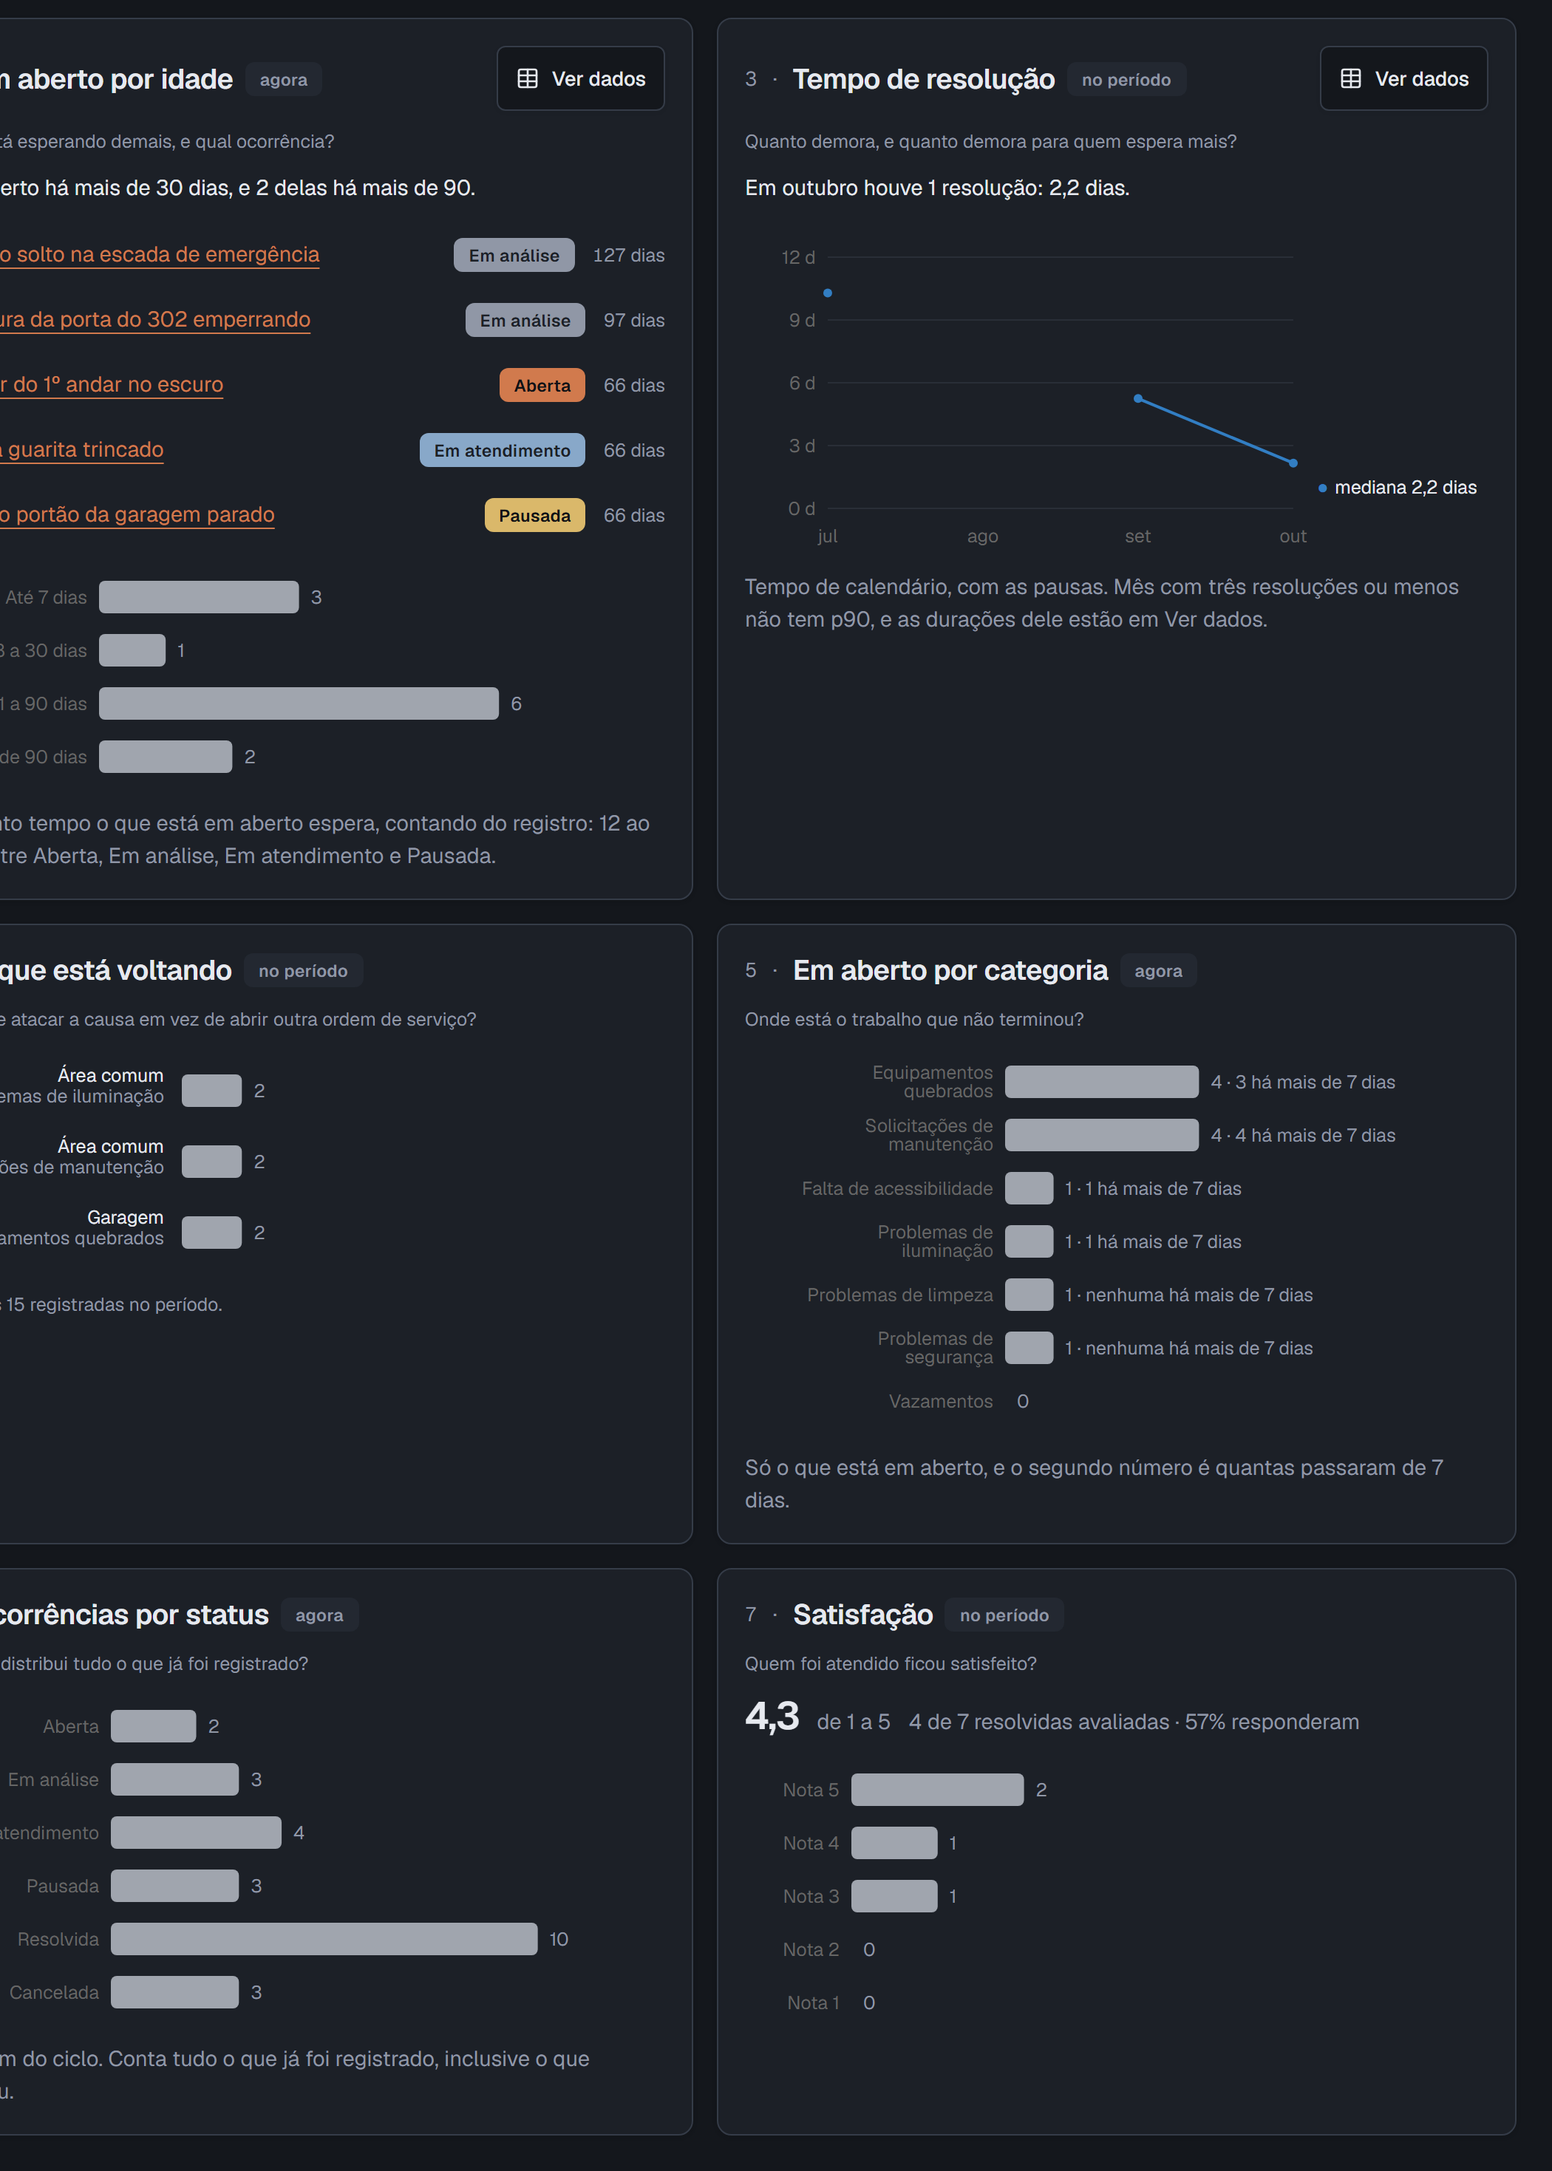
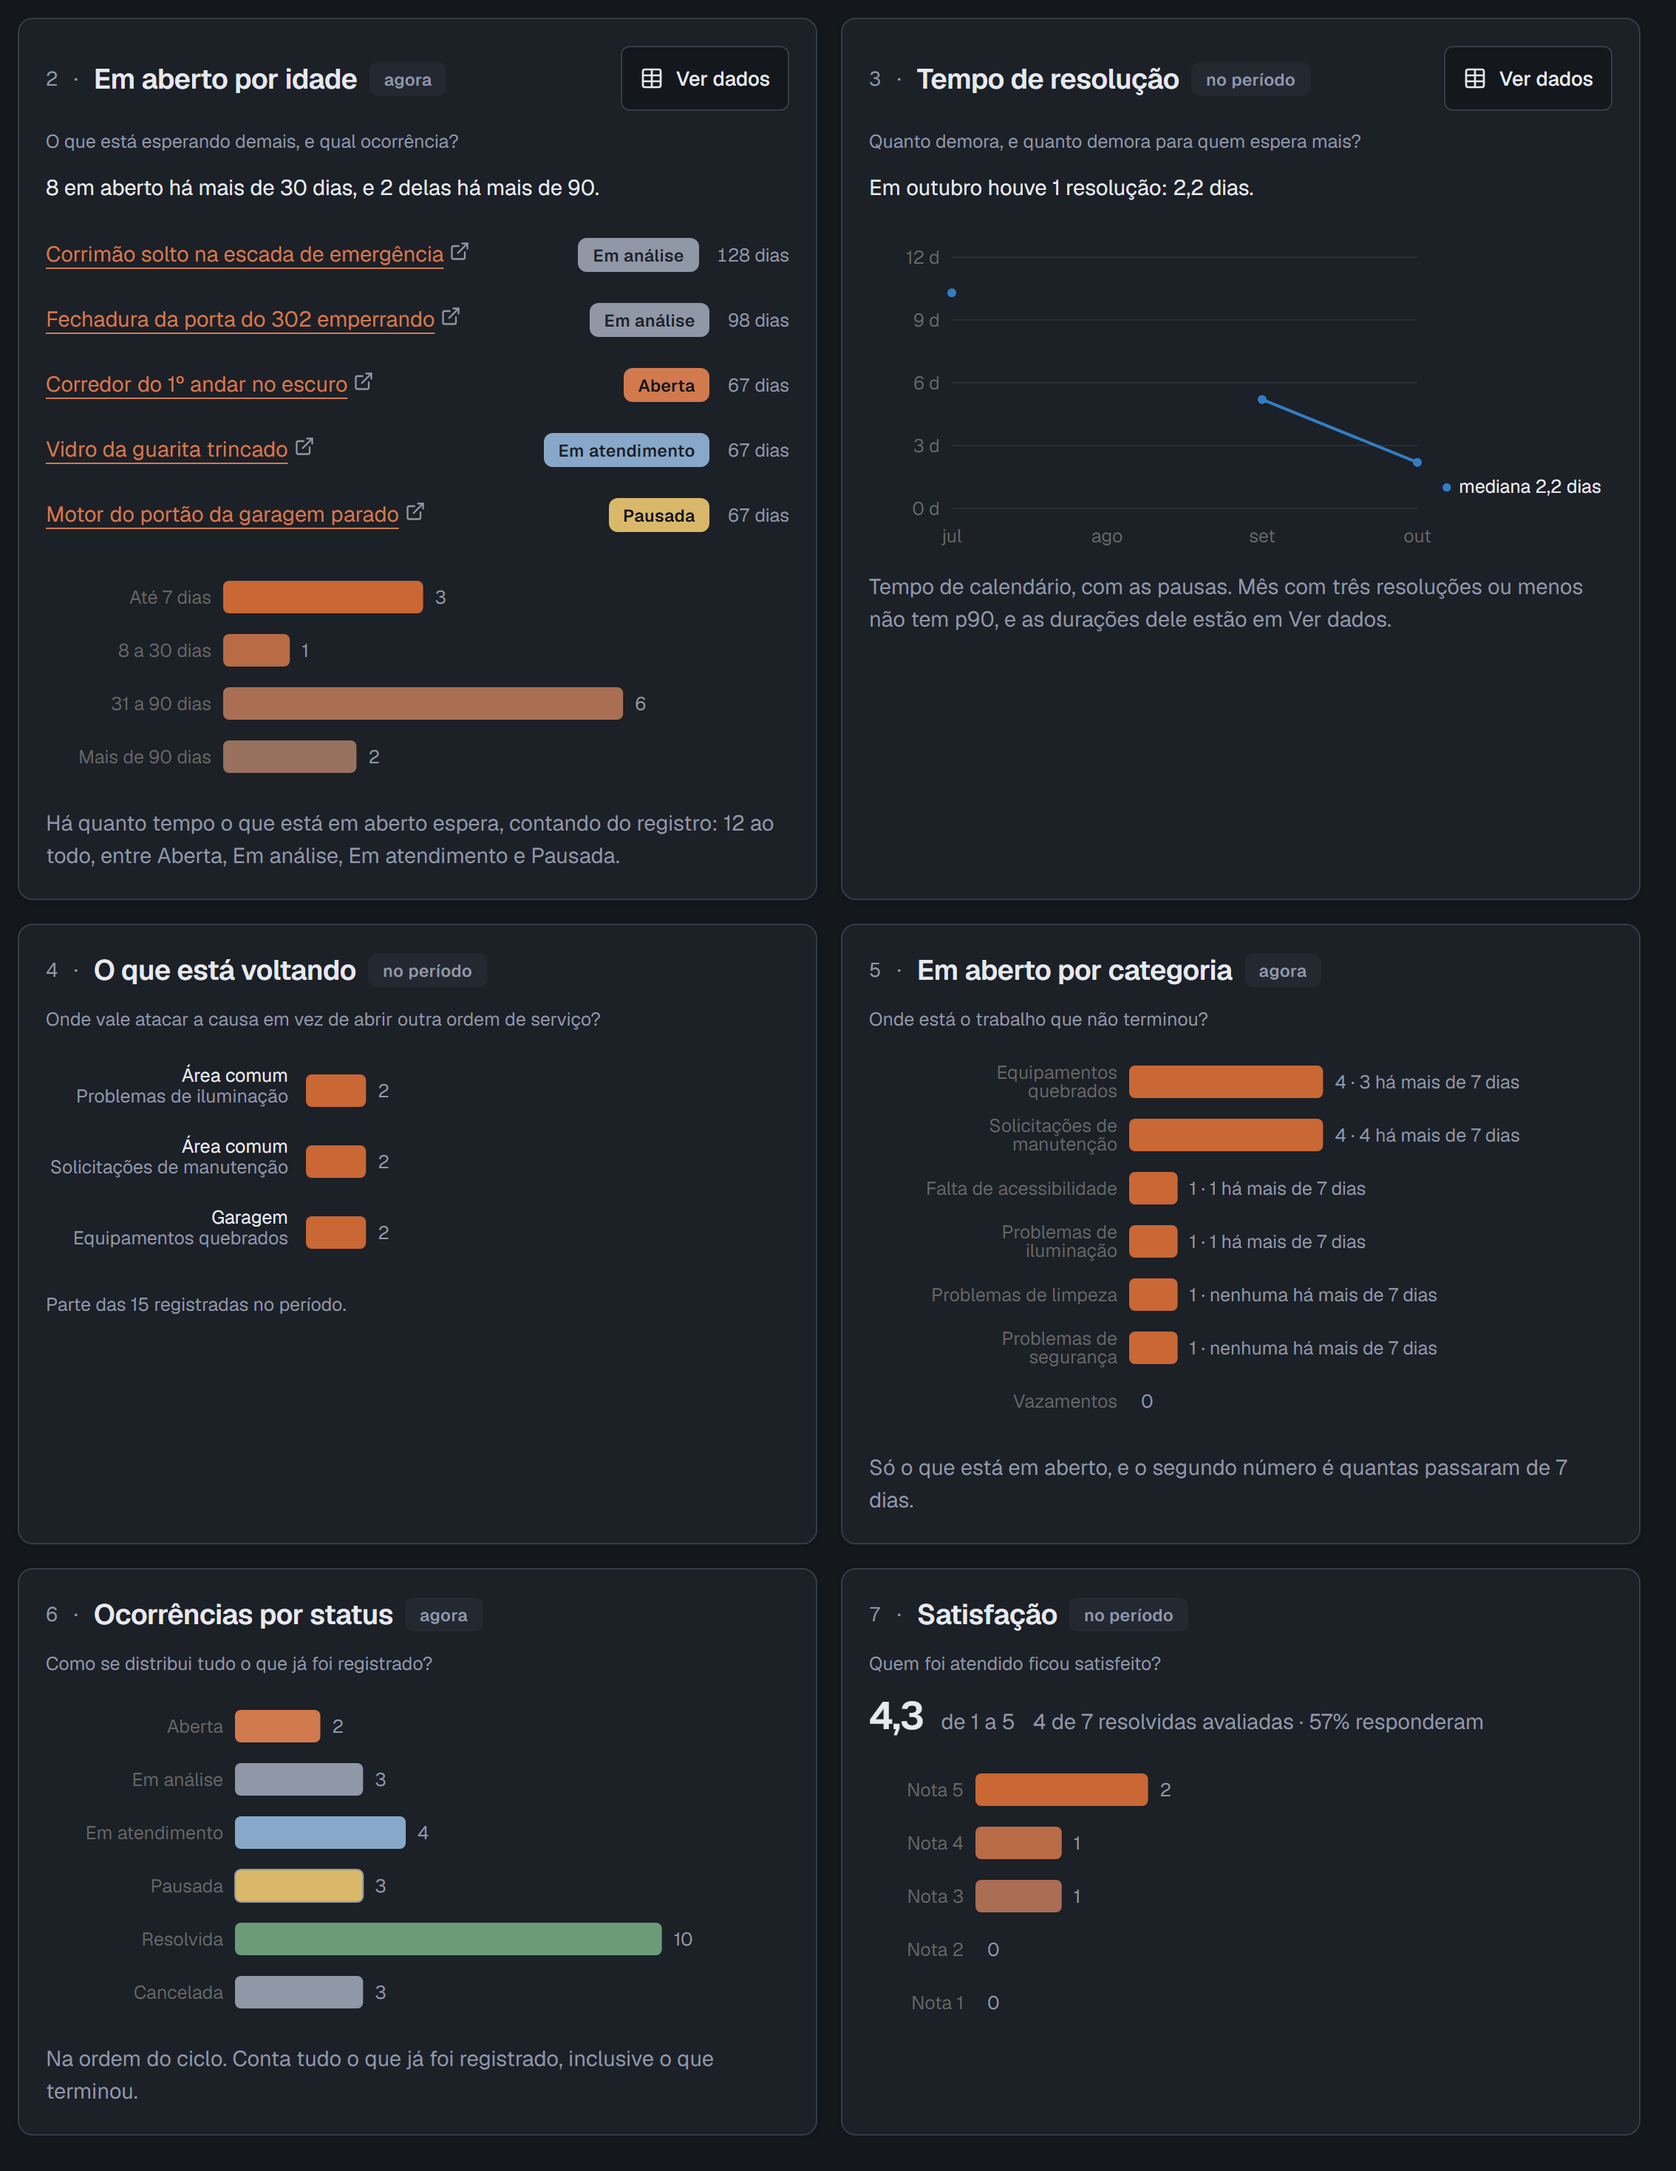
docs: o arranjo de ambiente sai de Infraestrutura, e o README ganha equipe e licenca
As secoes "A replica sempre de pe" e "O que a franquia gratuita impoe" saem
inteiras, com o custo por hora, o total mensal, as horas de franquia e o
credito de estudante. Esse material ja vive no contexto e nas alternativas da
ADR-0023, que e onde ele sustenta a decisao. No lugar das duas, dentro de
"Onde cada peca roda", ficam os dois fatos de operacao: a replica minima e a
pausa do banco por inatividade.

Nada se perdeu no corte: o trabalhador de servico continua na ADR-0020 e na
Visao geral, e o teto de 55 mil ocorrencias continua em Banco de dados.

Em "Alem do enunciado", a replica sai (e janela de avaliacao, nao capacidade),
a partida a frio medida sai da linha das revisoes, e a consulta diaria passa a
nomear o defeito que evita.

O README alinha a frase da replica com o texto novo, e a ultima linha vira as
secoes Equipe e Licenca. O LICENSE nasce com o texto da MIT, para o link nao
cair no verificador de referencias.

As tres capturas de produto foram refeitas contra o codigo de hoje: o item 134
vestiu as barras e o avatar, e as antigas mostravam o painel sem cor. O selo do
servidor de desenvolvimento saiu do enquadramento.

diff --git a/docs/infraestrutura.md b/docs/infraestrutura.md
@@ -6,9 +6,7 @@ description: "Onde cada peça roda, o que a imagem contém, a ordem da esteira d
 # Infraestrutura
 
 Um contêiner com a aplicação inteira, PostgreSQL e autenticação gerenciados, e um armazenamento de objetos
-para as imagens. A maior parte cabe em franquias gratuitas permanentes, e o crédito de estudante paga o
-resto: a réplica da aplicação que fica sempre de pé, e os centavos do e-mail de conta e do armazenamento
-de imagens. A mesma imagem roda na máquina de quem desenvolve e em produção.
+para as imagens. A mesma imagem roda na máquina de quem desenvolve e em produção.
 
 ## Onde cada peça roda
 
@@ -25,8 +23,19 @@ de imagens. A mesma imagem roda na máquina de quem desenvolve e em produção.
 
 A aplicação roda na região `chilecentral` e o banco em São Paulo, com latência de cerca de 40 ms entre os
 dois. A assinatura de estudante restringe as regiões permitidas a cinco, e a do Brasil não está entre
-elas. Contra o orçamento de resposta do produto esse número é ruído, e fica escrito para que ninguém gaste
-uma tarde tentando mover a aplicação para mais perto.
+elas. Contra o orçamento de resposta do produto esse número é ruído.
+
+A aplicação roda com no mínimo uma réplica, e a resposta fica abaixo de um segundo mesmo depois de horas
+sem tráfego. A decisão e as alternativas estão na
+[ADR-0023](adr/0023-uma-replica-sempre-de-pe.md).
+
+![Detalhes da revisão que recebe todo o tráfego, com réplicas mínima e máxima em 1 e 2, e uma réplica em execução](capturas/azure-replica-minima.png)
+
+**Data da captura:** 06/10/2026.
+
+O projeto de banco pausa depois de sete dias sem atividade, e uma pausa faz a migração da entrega
+seguinte falhar. Uma consulta trivial agendada todo dia mantém o banco ativo, com sete tentativas dentro
+de cada janela.
 
 ## A imagem
 
@@ -159,40 +168,6 @@ correu sozinha, levou 49 segundos e guardou o artefato.
 ![Execução agendada da cópia de segurança do banco, concluída com sucesso em 49 segundos, com um artefato](capturas/copia-do-banco-execucao.png)
 
 **Data da captura:** 06/10/2026.
-
-## A réplica sempre de pé
-
-Do envio do trabalho até o fim da avaliação, a aplicação roda com no mínimo uma réplica, e nenhuma visita
-espera o contêiner iniciar. Medida depois de mais de duas horas sem tráfego, a resposta ficou abaixo de um
-segundo.
-
-![Detalhes da revisão que recebe todo o tráfego, com réplicas mínima e máxima em 1 e 2, e uma réplica em execução](capturas/azure-replica-minima.png)
-
-**Data da captura:** 06/10/2026.
-
-A franquia mensal de computação cobre cerca de 100 horas dessa réplica, pouco mais de quatro dias. O resto
-sai do crédito de estudante. Sem tráfego, a réplica fica abaixo do limite de ociosidade da plataforma, e a
-hora ociosa custa US$ 0,0216, cerca de US$ 13 num mês inteiro. A assinatura tem limite de gasto: o crédito
-zerado a desliga, sem gerar fatura.
-
-Sem o mínimo, a aplicação escala para zero réplicas cerca de cinco minutos depois da última requisição, e
-a primeira chamada seguinte leva por volta de 20 segundos enquanto o contêiner inicia. A decisão e as
-alternativas estão na [ADR-0023](adr/0023-uma-replica-sempre-de-pe.md).
-
-Quem volta à aplicação pelo mesmo navegador conta ainda com o trabalhador de serviço. Ele guarda uma casca
-sem dado nenhum e, quando a última resposta do servidor que ele viu tem mais de quatro minutos, a pinta na
-hora e a troca pela tela assim que o servidor responde.
-
-## O que a franquia gratuita impõe
-
-O projeto de banco na franquia gratuita pausa depois de sete dias de inatividade, e uma pausa derruba a
-migração da entrega seguinte. A mitigação é uma consulta trivial agendada diariamente. Já foi semanal, e
-falhou: sete dias de janela contra sete dias de intervalo dão margem zero, e o agendador é de melhor
-esforço. O intervalo diário dá sete tentativas dentro de cada janela.
-
-O teto de armazenamento do banco na franquia comporta cerca de 55.000 ocorrências, quase trinta vezes o
-alvo declarado em [O produto](produto.md). O armazenamento de imagens não é restrição: na escala deste
-produto o limite prático é o custo, e ele é da ordem de um dólar por ano.
 
 ## O e-mail
 

diff --git a/README.md b/README.md
@@ -29,8 +29,7 @@ organizações passa por um ponto único. Ver **[O que está entregue](#o-que-es
 <https://ca-resolve-ai.jollypebble-46a227ca.chilecentral.azurecontainerapps.io>, as contas para entrar
 nele estão em **[A demonstração](#a-demonstração)**.
 
-A aplicação fica com uma réplica sempre de pé enquanto a avaliação durar, então quem abre o endereço não
-espera o servidor iniciar.
+A aplicação roda com no mínimo uma réplica, então quem abre o endereço não espera o servidor iniciar.
 
 O que ainda não existe é o que [O produto](docs/produto.md) corta em letra, com o motivo de cada corte:
 o acesso próprio do Encarregado e as capacidades que caem junto com ele, a nota interna e a conversa
@@ -378,4 +377,18 @@ onde está escrito.
 
 ---
 
-Projeto acadêmico, sem uso comercial. Cinco integrantes, um implementador.
+## Equipe
+
+**Grupo 01 — turma 8FSDT (FIAP)**
+
+- **Dario Lacerda** — rm369195
+- **Larissa Kramer** — rm370062
+- **Mirian Storino** — rm369489
+- **Natanael Dias** — rm369334
+- **Tiago Victor** — rm370117
+
+---
+
+## Licença
+
+MIT License — Projeto Educacional. Ver [LICENSE](LICENSE).

diff --git a/docs/atendimento-ao-enunciado.md b/docs/atendimento-ao-enunciado.md
@@ -111,9 +111,9 @@ O que o produto faz, e o desafio não pediu.
 **Operação**
 
 - Verificadores que comparam o site e a autenticação no ar com o que o repositório declara ([Testes](testes.md))
-- Uma réplica sempre de pé durante o período da avaliação ([Infraestrutura](infraestrutura.md))
-- Consulta diária que mantém o banco acordado ([Infraestrutura](infraestrutura.md))
-- Revisões múltiplas, com volta sem reconstruir, e partida a frio medida ([Infraestrutura](infraestrutura.md))
+- Pausa do banco por inatividade, que derrubaria a migração da entrega seguinte, evitada por consulta
+  diária agendada ([Infraestrutura](infraestrutura.md))
+- Revisões múltiplas, com volta sem reconstruir ([Infraestrutura](infraestrutura.md))
 
 **Interface**
 
